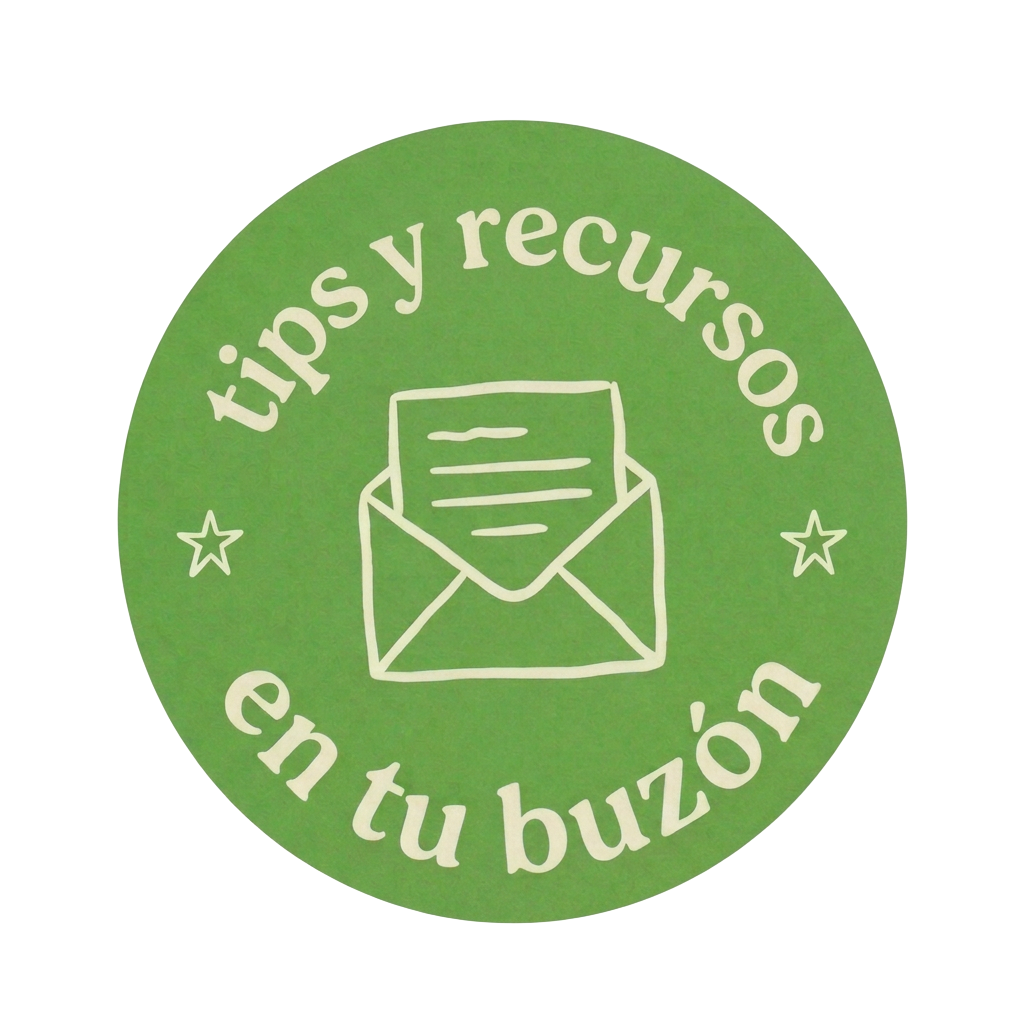
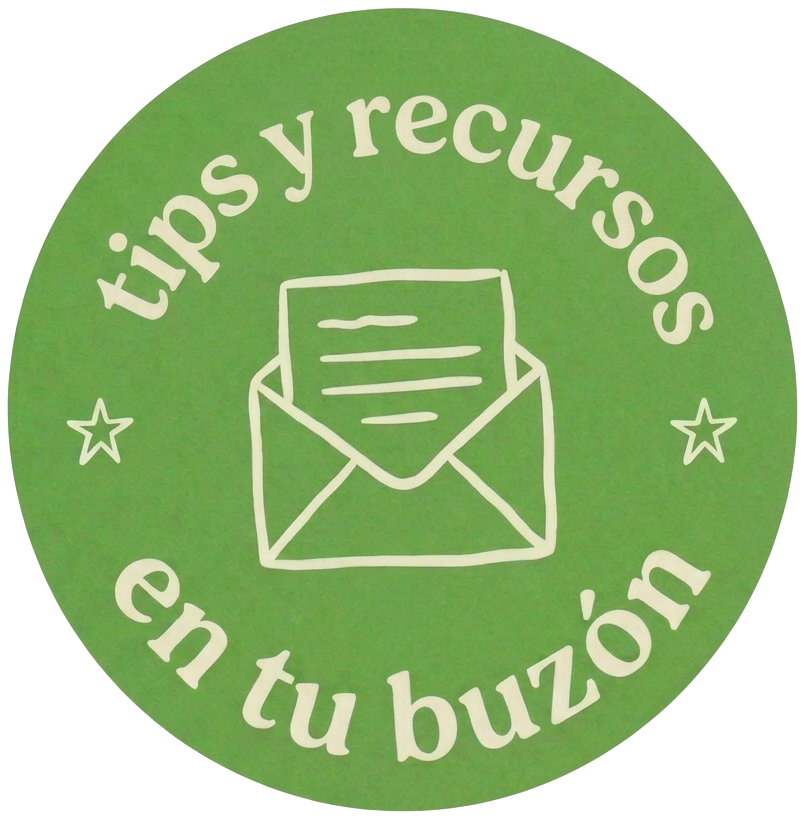
Changes

diff --git a/src/routes/index.tsx b/src/routes/index.tsx
@@ -9,7 +9,7 @@ import methodSticker from "@/assets/metodo-crecen-sticker-dark.png";
 import portadaFamiliaAsset from "@/assets/portada-familia-correcta.jpg.asset.json";
 import portada5476Asset from "@/assets/portada-5476.jpg.asset.json";
 import portada7064Asset from "@/assets/portada-7064.jpg.asset.json";
-import newsletterSticker from "@/assets/recibe-valor-sticker.jpeg.asset.json";
+import newsletterSticker from "@/assets/newsletter-sticker.png";
 import shimmiYukiAsset from "@/assets/shimmi-y-yuki.jpg.asset.json";
 import kobuAsset from "@/assets/kobu.jpg.asset.json";
 import cobainAsset from "@/assets/cobain.jpg.asset.json";
@@ -186,7 +186,7 @@ function HomePage() {
     <section className="newsletter-home">
       <figure className="newsletter-photo">
         <img src={familiaAsset.url} alt="Familia con niños y perro compartiendo tiempo en el jardín" loading="lazy" />
-        <img className="newsletter-sticker" src={newsletterSticker.url} alt="Recibe valor en tu buzón" loading="lazy" />
+        <img className="newsletter-sticker" src={newsletterSticker} alt="Tips y recursos en tu buzón" loading="lazy" />
       </figure>
       <div className="newsletter-copy"><h2>+ de 1000 dog moms y dog dads ya reciben nuestros tips mensuales.</h2><p>Este es mi compromiso contigo para que la convivencia entre tu perro y tu bebé mejore mientras crecen juntos.</p></div>
       <LeadForm source="newsletter_inicio" compact label="Inscríbeme" />

diff --git a/src/styles.css b/src/styles.css
@@ -351,7 +351,7 @@
   .method-sticker { width: min(56vw,230px); }
   .courses-section { padding-top: 100px; padding-bottom: 120px; }
   .about-home { padding-top: 145px; }.about-inner { grid-template-columns: 1fr; }.about-collage { min-height: 460px; }.about-copy { padding-top: 12px; }
-  .newsletter-home { grid-template-columns: 1fr; }.newsletter-photo { width: min(72vw,320px); }.newsletter-photo .newsletter-sticker { top: -36px; right: -34px; width: 142px; }.newsletter-home .lead-form-inline { display: grid; }
+  .newsletter-home { grid-template-columns: 1fr; }.newsletter-photo { width: min(72vw,320px); }.newsletter-photo .newsletter-sticker { top: -40px; right: -38px; width: 168px; }.newsletter-home .lead-form-inline { display: grid; }
   .pink-overlap { padding-inline: 20px !important; }
   .resources-grid { grid-template-columns: repeat(3,minmax(190px,230px)); overflow-x: auto; justify-content: start; padding: 8px 18px 18px; margin-inline: -22px; }
 }
